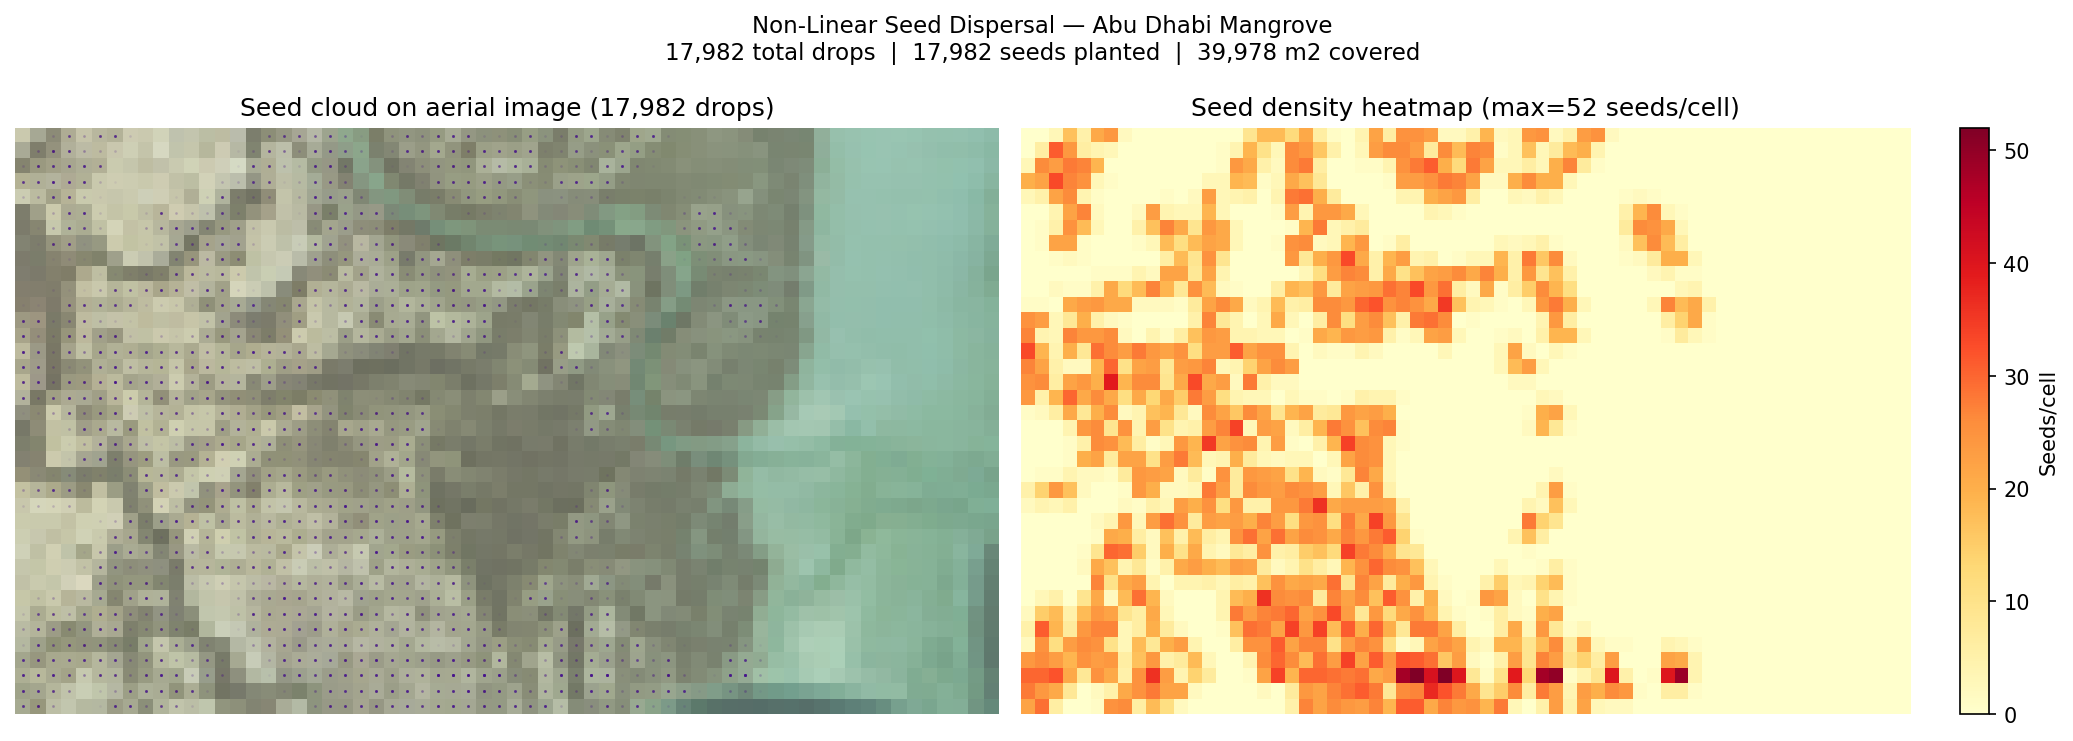
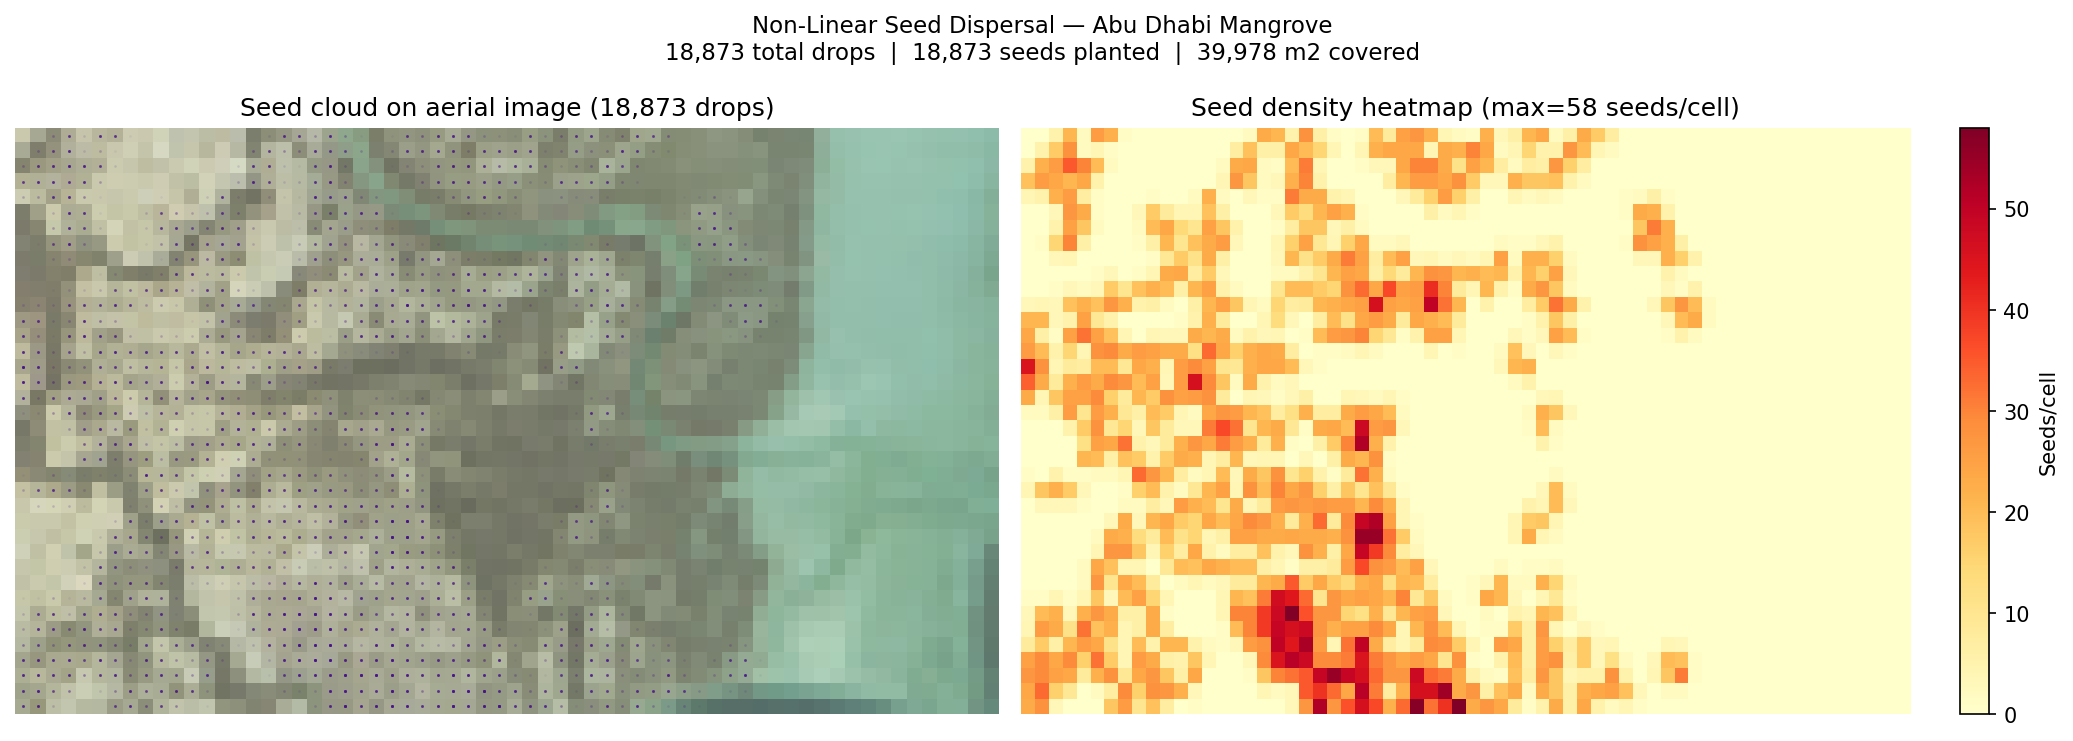
Fix contour strip sizing for seed lifecycle; add contour GIF output
contour.py: add max_cells_per_strip parameter to split large bands into
sub-strips that fit within one hopper load. Without this, the engine's
strip-restart-on-return behaviour caused drones to loop over the first
~221 cells of a 599-cell strip on every refill, producing 24 refill stops
and 8.5% coverage instead of 100%.

run_mangrove.py: switch to contour mode (strip_width=1, max_cells_per_strip
= hopper_cells - 10). Output: results/phase5_contour_mangrove.gif.
Results: 5 strips, 100% coverage, 18,873 seeds, 1 hopper refill, 2189 steps.

diff --git a/run_mangrove.py b/run_mangrove.py
@@ -11,6 +11,7 @@ from matplotlib.patches import Patch
 from src.reforestation.config        import MissionConfig, compute_sim_params, print_mission_summary
 from src.reforestation.soil_detector import detect_soil_mask, load_field_image
 from src.field.generator             import generate_strips
+from src.field.contour               import generate_contour_strips
 from src.optimizer.milp              import DroneSpec, assign_strips
 from src.simulation.engine           import simulate
 from src.simulation.metrics          import (
@@ -104,16 +105,20 @@ params = compute_sim_params(cfg, ncols=NCOLS)
 print_mission_summary(cfg, ncols=NCOLS)
 
 # ── Strips ────────────────────────────────────────────────────────────────
-strips = generate_strips(
+# Contour mode: distance-transform rings that hug tidal channel boundaries.
+# max_cells_per_strip keeps each strip within one hopper load so the drone
+# advances through the strip without replaying the beginning after each refill.
+hopper_cells = int(cfg.seed_capacity / params['seeds_per_cell'])   # ~221 cells
+strips = generate_contour_strips(
+    soil_mask,
     priority_grid,
-    seconds_per_cell = cfg.seconds_per_cell,
-    orientation_deg  = 0,
-    spray_threshold  = 0.0,
-    field_mask       = soil_mask,
+    strip_width          = 1,          # finest rings — maximum sinuosity
+    seconds_per_cell     = cfg.seconds_per_cell,
+    max_cells_per_strip  = hopper_cells - 10,  # small safety margin
 )
 total_spray = sum(len(s.spray_cells) for s in strips)
 transit_only = sum(len(s.cells) - len(s.spray_cells) for s in strips)
-print(f'Strips: {len(strips)}   Plantable cells: {total_spray}   Transit-only: {transit_only}')
+print(f'Contour strips: {len(strips)}   Plantable cells: {total_spray}   Transit-only: {transit_only}')
 
 # ── Assignment ────────────────────────────────────────────────────────────
 drones = [DroneSpec(id=i, seed_capacity=cfg.seed_capacity) for i in range(cfg.n_drones)]
@@ -157,13 +162,13 @@ anim = animate(
     interval_ms       = 150,
     dock_positions    = cfg.dock_positions,
     background_image  = img_rgb,
-    save_path         = 'results/phase5_abu_dhabi_mangrove.gif',
+    save_path         = 'results/phase5_contour_mangrove.gif',
     show              = False,
     show_seed_drops   = True,
     mode_label        = cfg.name,
     n_plantable_cells = n_plantable,
 )
-print(f'GIF: results/phase5_abu_dhabi_mangrove.gif ({len(gif_hist)} frames)')
+print(f'GIF: results/phase5_contour_mangrove.gif ({len(gif_hist)} frames)')
 
 # ── Seed drop visualisation ───────────────────────────────────────────────
 fig2, axes2 = plt.subplots(1, 2, figsize=(14, 5))

diff --git a/src/field/contour.py b/src/field/contour.py
@@ -32,7 +32,7 @@ Why this beats the alternatives
 """
 from __future__ import annotations
 
-from typing import List, Tuple
+from typing import List, Optional, Tuple
 
 import numpy as np
 from scipy.ndimage import distance_transform_edt
@@ -46,6 +46,7 @@ def generate_contour_strips(
     strip_width: int = 2,
     seconds_per_cell: float = 2.0,
     min_cells: int = 3,
+    max_cells_per_strip: Optional[int] = None,
 ) -> List[Strip]:
     """Generate sinuous contour strips that hug tidal channel boundaries.
 
@@ -68,6 +69,16 @@ def generate_contour_strips(
     min_cells:
         Strips with fewer plantable cells than this threshold are discarded
         (avoids tiny isolated fragments clogging the optimizer).
+    max_cells_per_strip:
+        If set, any band with more cells than this limit is split into
+        consecutive sub-strips of at most this size.  Use this when
+        running with seed capacity enabled: set it to
+        ``int(seed_capacity / seeds_per_cell) - margin`` so each strip
+        fits within one hopper load.  The simulation engine resets a
+        drone's position within a strip when it returns to dock, so
+        strips longer than one hopper load will cause the drone to replay
+        the start of the strip on every refill rather than advancing.
+        ``None`` (default) = no splitting.
 
     Returns
     -------
@@ -113,17 +124,29 @@ def generate_contour_strips(
 
         cells: List[Tuple[int, int]] = [(int(r), int(c)) for r, c in ordered]
 
-        strip = _make_strip(
-            strip_id,
-            cells,
-            priority_grid,
-            seconds_per_cell,
-            orientation_deg=0.0,   # contour strips have no fixed orientation
-            spray_threshold=0.0,
-            field_mask=soil,
-        )
-        if strip is not None:
-            strips.append(strip)
-            strip_id += 1
+        # Split large bands into sub-strips so each fits within one hopper load.
+        # Without this, the engine's strip-restart-on-return behaviour causes the
+        # drone to loop over the first hopper-load of cells indefinitely.
+        if max_cells_per_strip and len(cells) > max_cells_per_strip:
+            chunks = [
+                cells[i : i + max_cells_per_strip]
+                for i in range(0, len(cells), max_cells_per_strip)
+            ]
+        else:
+            chunks = [cells]
+
+        for chunk in chunks:
+            strip = _make_strip(
+                strip_id,
+                chunk,
+                priority_grid,
+                seconds_per_cell,
+                orientation_deg=0.0,   # contour strips have no fixed orientation
+                spray_threshold=0.0,
+                field_mask=soil,
+            )
+            if strip is not None:
+                strips.append(strip)
+                strip_id += 1
 
     return strips
